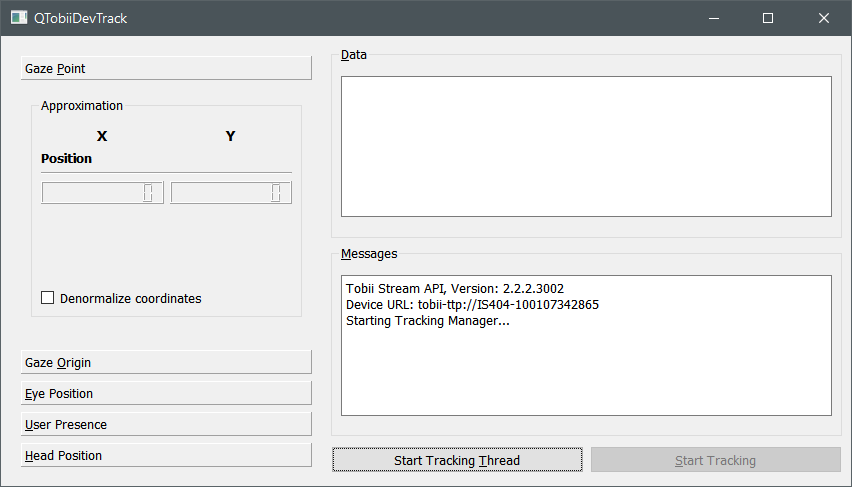
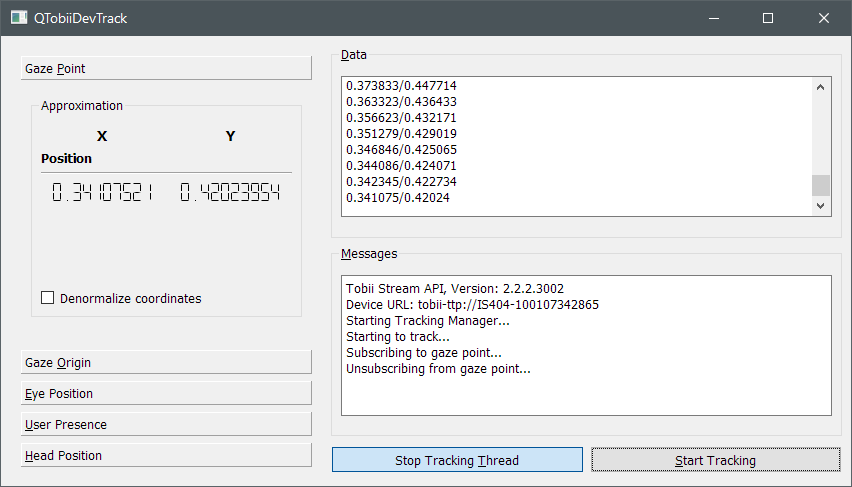
Picking up transmit signal and finaly displaying data in QLCDNumber widget

diff --git a/src/qtobii-gaze-point.cpp b/src/qtobii-gaze-point.cpp
@@ -11,21 +11,17 @@
 
 #include "qtobii-gaze-point.h"
 #include "qtobii-logger.h"
-#include <QDebug>
+#include <QThread>
 
 namespace qtobii {
 
 void QTobiiGazePoint::callback(const tobii_gaze_point_t *gazePoint, void *exchange) {
   auto exchangeContainer = static_cast<QTobiiExchangeContainer<tobii_gaze_point_t, QString>*>(exchange);
-  QString output = QString("%1/%2").arg(
-    QString::number(gazePoint->position_xy[0]),
-    QString::number(gazePoint->position_xy[1])
-  );
-
-  qDebug() << output;
 
   exchangeContainer->getData()->send(*gazePoint);
-  exchangeContainer->getMessages()->send(output);
+  exchangeContainer->getMessages()->send(QString("%1/%2")
+    .arg(QString::number(gazePoint->position_xy[0]), QString::number(gazePoint->position_xy[1]))
+  );
 }
 
 void QTobiiGazePoint::subscribe() {
@@ -36,10 +32,8 @@ void QTobiiGazePoint::subscribe() {
   exchangeContainer = new QTobiiExchangeContainer<tobii_gaze_point_t, QString>(data, messages);
 
 #ifdef QTOBII_MSVC_QOVERLOAD_WORKAROUND
-  connect(
-    messages, static_cast<void (QTobiiDataMessenger::*)(QString)>(&QTobiiData<QString>::transmit),
-    api->getLogger(), &QTobiiLogger::data
-  );
+  connect(messages, static_cast<void (QTobiiDataMessenger::*)(QString)>(&QTobiiData<QString>::transmit),
+          api->getLogger(), &QTobiiLogger::data);
 #else
   connect(messages, qOverload<QString>(&QTobiiData::transmit), api->getLogger(), &QTobiiLogger::data);
 #endif

diff --git a/src/qtobii-tracking-manager.cpp b/src/qtobii-tracking-manager.cpp
@@ -25,6 +25,8 @@ QTobiiTrackingManager::QTobiiTrackingManager(QObject *parent, QTobiiApi* api, QT
   gazePoint = new QTobiiGazePoint(api);
   thread = new QThread();
 
+  qRegisterMetaType<tobii_gaze_point_t>("tobii_gaze_point_t");
+
   connect(devTrack->getStartThreadButton(), &QPushButton::toggled, this, &QTobiiTrackingManager::toggleThread);
   connect(devTrack->getStartTrackingButton(), &QPushButton::toggled, this, &QTobiiTrackingManager::toggleSubscription);
 
@@ -44,9 +46,24 @@ void QTobiiTrackingManager::toggleThread(bool value) {
 void QTobiiTrackingManager::toggleSubscription(bool value) {
   if (value) {
     gazePoint->subscribe();
+
+#ifdef QTOBII_MSVC_QOVERLOAD_WORKAROUND
+    connect(gazePoint->getData(),
+            static_cast<void (QTobiiDataMessenger::*)(tobii_gaze_point_t)>(&QTobiiData<tobii_gaze_point_t>::transmit),
+            this, &QTobiiTrackingManager::displayGazePointData);
+#else
+    connect(gazePoint->getData(), qOverload<tobii_gaze_point_t>(&QTobiiData::transmit),
+            this, &QTobiiTrackingManager::displayGazePointData);
+#endif
+
   } else {
     gazePoint->unsubscribe();
   }
+}
+
+void QTobiiTrackingManager::displayGazePointData(tobii_gaze_point_t data) {
+  devTrack->getGazePointXValue()->display(data.position_xy[0]);
+  devTrack->getGazePointYValue()->display(data.position_xy[1]);
 }
 
 void QTobiiTrackingManager::startThread() {

diff --git a/includes/qtobii-tracking-manager.h b/includes/qtobii-tracking-manager.h
@@ -18,6 +18,7 @@
 #include "qtobii-logger.h"
 #include "qtobii-tracker.h"
 #include <QObject>
+#include <tobii_streams.h>
 
 namespace qtobii {
 class QTobiiTrackingManager : public QObject {
@@ -30,6 +31,7 @@ public:
 public slots:
   void toggleThread(bool value);
   void toggleSubscription(bool value);
+  void displayGazePointData(tobii_gaze_point_t data);
 
 private:
   void startThread();

diff --git a/TODO.md b/TODO.md
@@ -13,7 +13,7 @@ QTobiiDevTrack::Todo
 - [ ] Implement Head Position tracking, approximation and data display
 - [ ] Implement reconnection method
 - [ ] Implement User Presence tracking and data display
-- [ ] Pick up transmit signal with tobii_gaze_point_t and finaly display data in QLCDNumber widgets
+- [ ] Use QTimer to slow down the display of tracking data in QLCDNumber (Reducing flickering of display)
 - [x] Add a logger for signal/slot-based logging (instead of using QTobiiDevTrack)
 - [x] Add exception for failing loading and/or casting plugins
 - [x] Check and enable/disable buttons appropriately for starting/stopping thread and tracking
@@ -26,6 +26,7 @@ QTobiiDevTrack::Todo
 - [x] Implement toggling button to start/stop tracking thread
 - [x] Integrate Tobii Stream Engine API
 - [x] Introduce subdirs for qmake and put final build files into one directory
+- [x] Pick up transmit signal with tobii_gaze_point_t and finaly display data in QLCDNumber widgets
 - [x] Setup API and initialize device
 - [x] Start tracking engine in a separate thread
 - [x] Transmitting tracking data (tobii_gaze_point_t)
